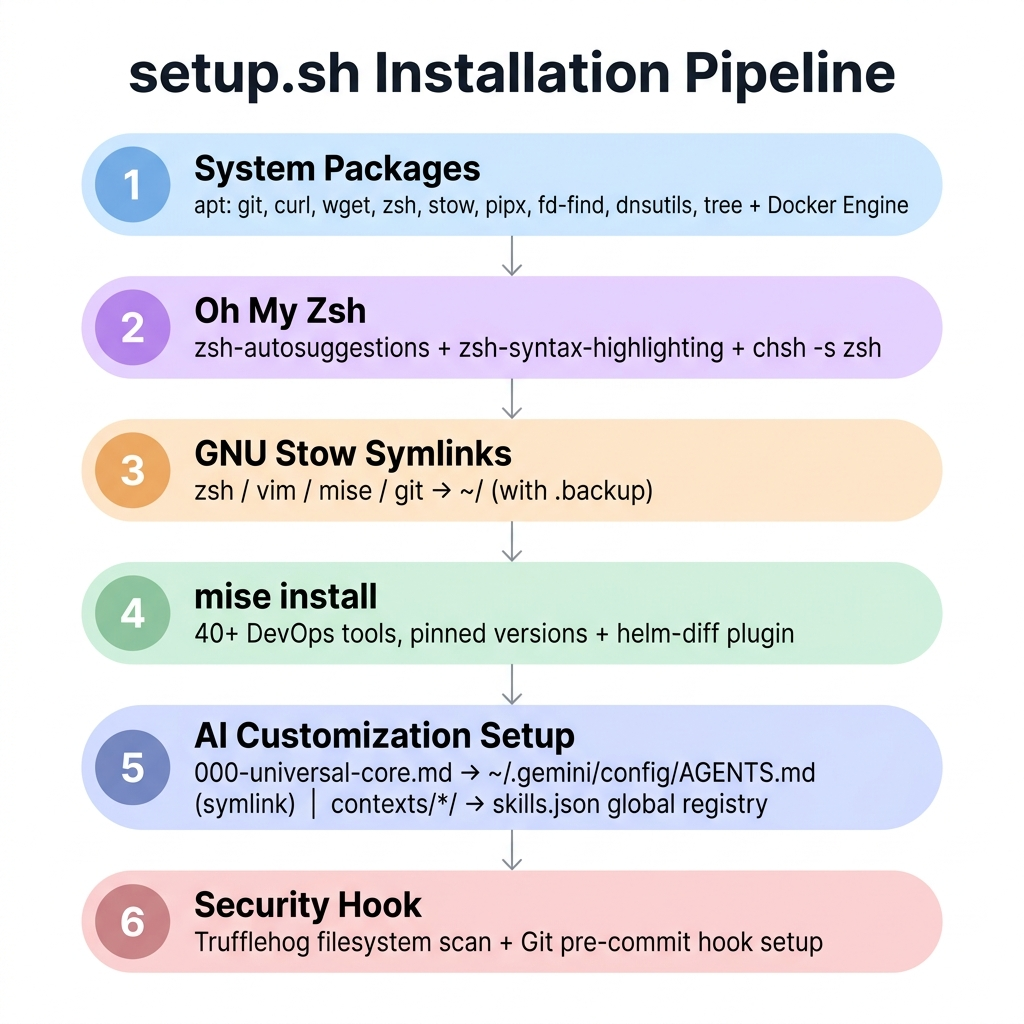
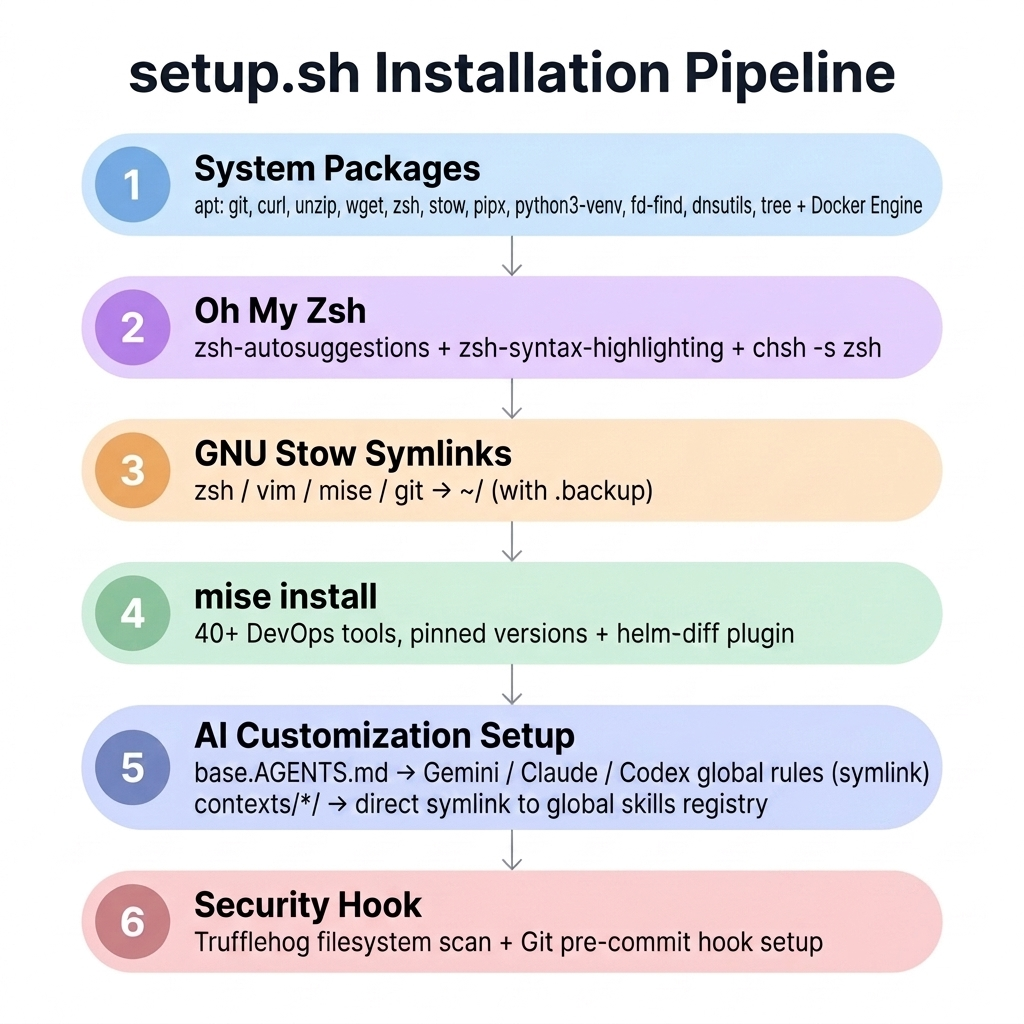
docs: assets 다이어그램 3종 현재 코드 로직에 동기화
- setup-pipeline.png: Step 1에 unzip/python3-venv 추가, Step 5를 base.AGENTS.md 기반 멀티 에이전트(Gemini/Claude/Codex) + 직접 심볼릭 링크 방식으로 갱신
- stow-symlinks.png: zsh/.zshenv, git/.gitconfig-workspace, git/.gitignore_global 추가 반영 (7개 항목), MUST 경고 박스 제거
- ai-context-pipeline.png: 000-universal-core.md→base.AGENTS.md 파일명 변경, skills.json→직접 심볼릭 링크, 3종 에이전트 지원, 6 domains 반영
- README.md: 디렉토리 구조 섹션에 git/.gitconfig-workspace, git/.githooks-workspace/, zsh/.zshenv 추가

Changed region(s): [[0.1875, 0.7188, 0.9062, 0.8125], [0.1875, 0.1875, 0.9062, 0.2188]]

diff --git a/README.md b/README.md
@@ -122,8 +122,10 @@ ls ~/.gemini/config/skills/
 │   ├── dotfiles/         # dotfiles 레포 자체 관리용 메타 프롬프트 🟢 Production
 │
 ├── git/
-│   ├── .gitconfig        # 글로벌 Git 설정 (alias, pull.rebase=true)
-│   └── .gitignore_global # 시스템 전역 Git 무시 규칙 (tfstate, .env 등)
+│   ├── .gitconfig             # 글로벌 Git 설정 (alias, pull.rebase=true)
+│   ├── .gitconfig-workspace   # 워크스페이스별 Git 설정 (includeIf 조건부 로딩)
+│   ├── .githooks-workspace/   # 워크스페이스별 Git 훅 디렉토리
+│   └── .gitignore_global      # 시스템 전역 Git 무시 규칙 (tfstate, .env 등)
 │
 ├── mise/
 │   └── .mise.toml        # 인프라 도구 버전 선언 매니페스트 (SSOT)
@@ -132,6 +134,7 @@ ls ~/.gemini/config/skills/
 │   └── .vimrc            # Vim 설정 (클립보드 연동, YAML 2칸 탭)
 │
 ├── zsh/
+│   ├── .zshenv           # Zsh 환경변수 설정 (PATH 등 비대화형 세션 포함)
 │   └── .zshrc            # Zsh 설정 (Oh My Zsh, 단축어)
 │
 ├── .gitignore            # dotfiles 레포 자체 Git 무시 규칙
